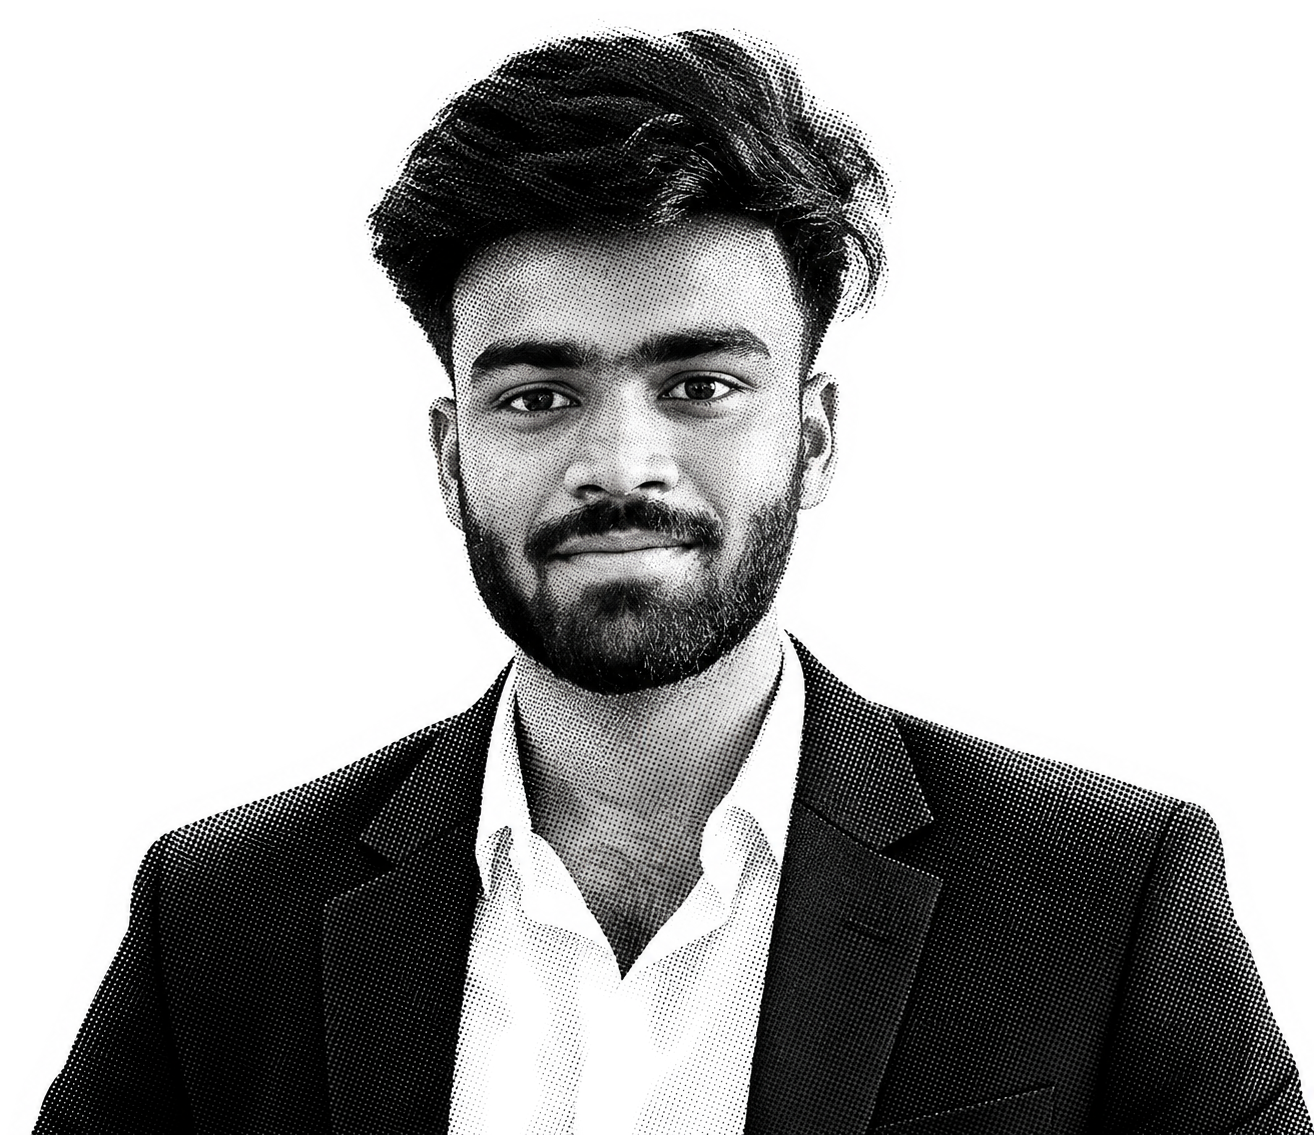
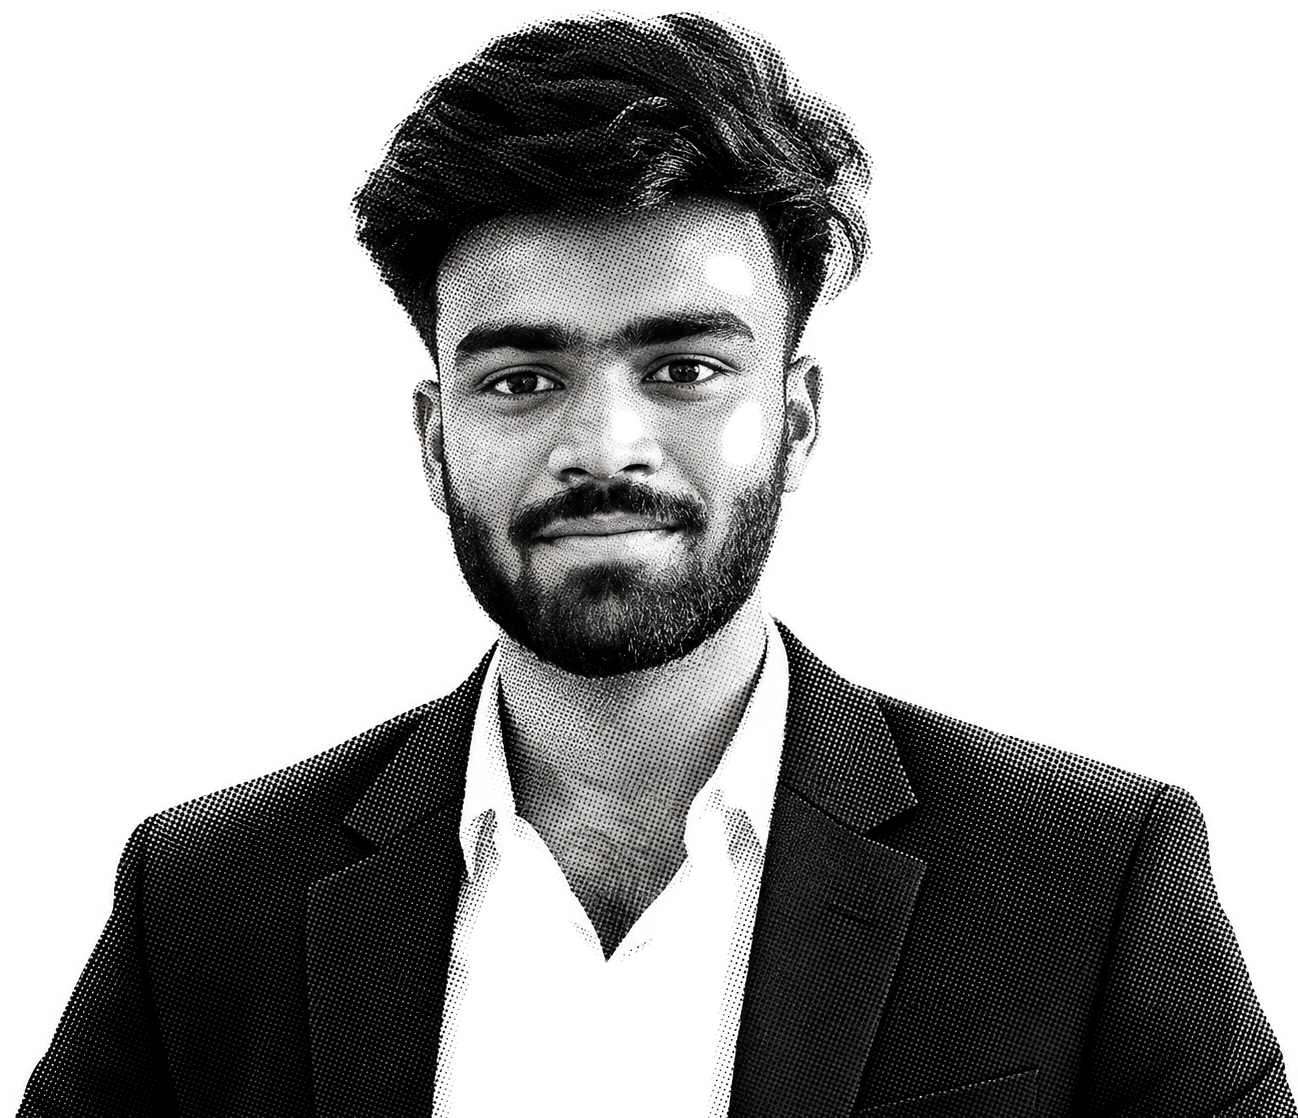
fix: restore dotted hero and fullscreen portrait composition

Changed region(s): [[0.0, 0.0, 1.0, 1.0], [0.4006, 0.9732, 0.4314, 1.0]]

diff --git a/src/components/PortraitTransition.jsx b/src/components/PortraitTransition.jsx
@@ -38,7 +38,7 @@ export default function PortraitTransition({ targetRef }) {
       const viewportWidth = window.innerWidth;
       const viewportHeight = window.innerHeight;
       
-      const t = Math.min(1, Math.max(0, scrollY / (viewportHeight * 0.62)));
+      const t = Math.min(1, Math.max(0, scrollY / viewportHeight));
       const easeT = t < 0.5 ? 2 * t * t : 1 - Math.pow(-2 * t + 2, 2) / 2; // easeInOutQuad
       
       const targetRect = target.getBoundingClientRect();
@@ -62,15 +62,15 @@ export default function PortraitTransition({ targetRef }) {
       // Transitioning
       const containerWidth = Math.min(viewportWidth - 40, 1280); // matches --layout-max-width 1280
       const containerLeft = (viewportWidth - containerWidth) / 2;
-      const heroWidth = Math.min(containerWidth * 0.45, 550);
-      const heroX = viewportWidth > 768 ? containerLeft + containerWidth - heroWidth : (viewportWidth - heroWidth) / 2;
-      const heroY = viewportHeight * 0.1;
+      const heroWidth = Math.min(containerWidth * 0.75, 850);
+      const heroX = viewportWidth > 768 ? containerLeft + containerWidth - heroWidth + 120 : (viewportWidth - heroWidth) / 2;
+      const heroY = viewportHeight * 0.15;
       
       const currentWidth = heroWidth + (targetWidth - heroWidth) * easeT;
       const currentX = heroX + (targetX - heroX) * easeT;
       const currentY = heroY + (targetY - heroY) * easeT;
       
-      const opacity = 0.08 + (1 - 0.08) * Math.min(1, t * 1.5);
+      const opacity = 0.20 + (1 - 0.20) * Math.min(1, t * 1.5);
       
       img.style.position = 'fixed';
       img.style.left = '0px';

diff --git a/src/components/DotMatrixText.jsx b/src/components/DotMatrixText.jsx
@@ -43,7 +43,7 @@ export default function DotMatrixText({ text = "TEJESH C" }) {
     const dpr = Math.min(window.devicePixelRatio || 1, 2);
     const rect = container.getBoundingClientRect();
 
-    const width = rect.width;
+    const width = Math.floor(rect.width);
     const offCanvas = document.createElement('canvas');
     const octx = offCanvas.getContext('2d', { willReadFrequently: true });
 

diff --git a/src/index.css b/src/index.css
@@ -240,7 +240,7 @@ img, picture, video, canvas, svg {
 }
 
 .hero-section {
-  min-height: clamp(500px, 62vh, 800px);
+  min-height: 100svh;
   display: flex;
   align-items: center;
   justify-content: flex-start;
